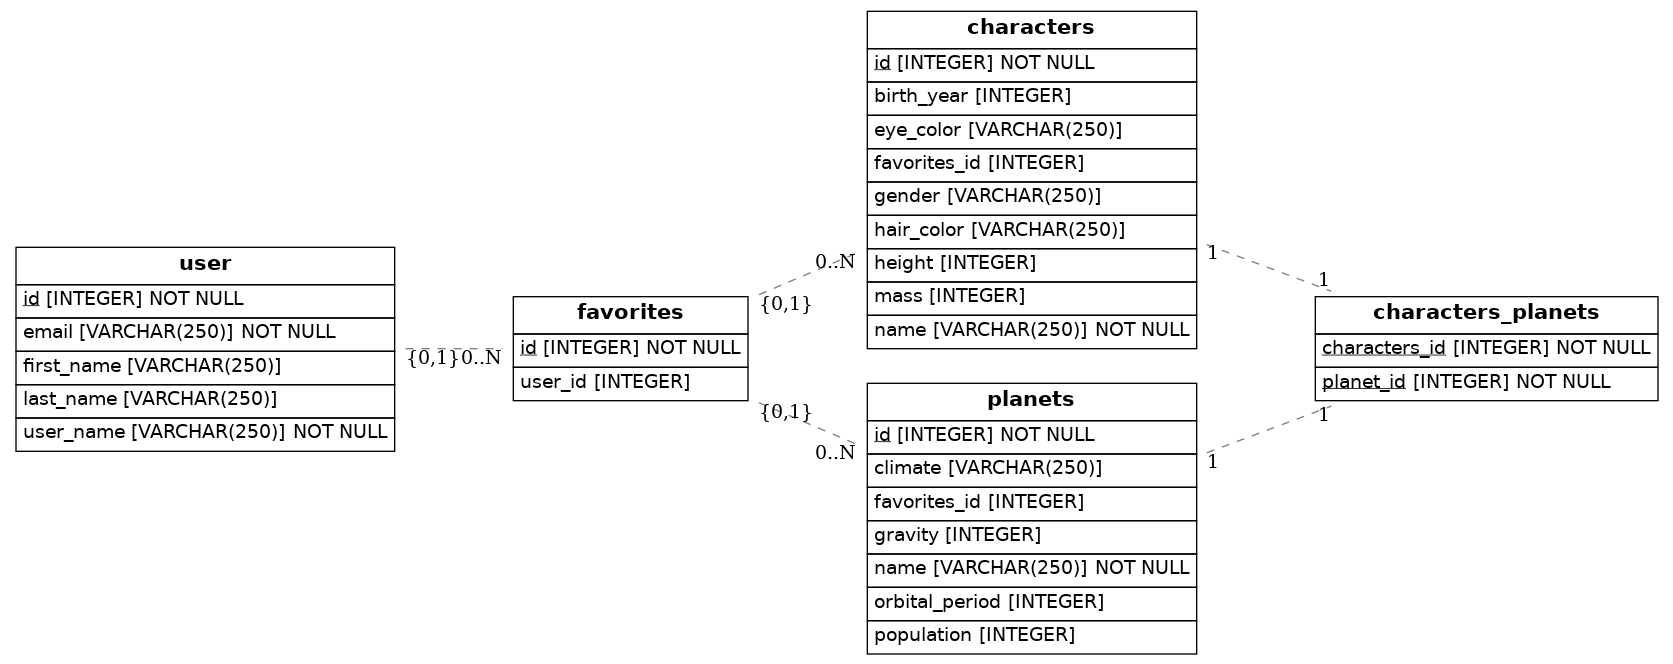
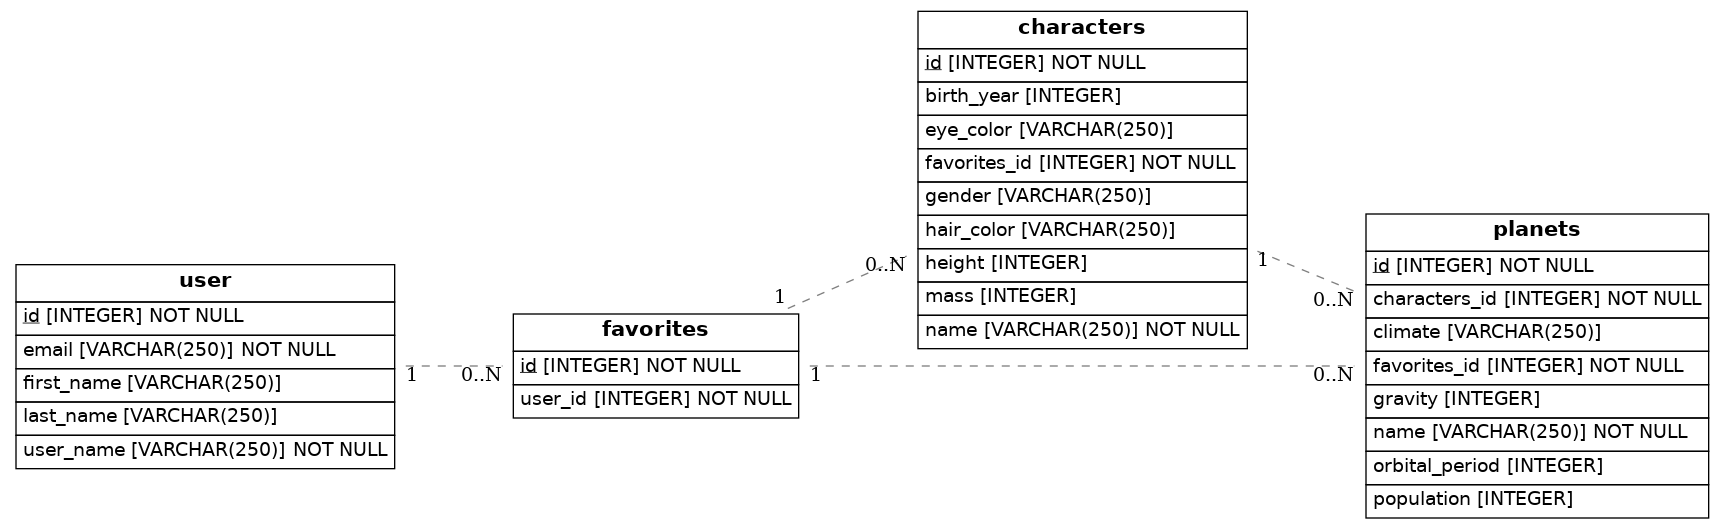
diagrama Starwars second version

Changed region(s): [[0.4662, 0.0, 0.746, 0.9981], [0.0, 0.3629, 0.4973, 0.9074], [0.746, 0.3932, 0.9946, 0.9981]]

diff --git a/src/models.py b/src/models.py
@@ -16,6 +16,15 @@ class User(Base):
     first_name = Column(String(250))
     last_name = Column(String(250))
     email = Column(String(250), nullable=False)
+    favorites = relationship ('Favorites', backref = 'favorites', lazy=True)  
+
+class Favorites(Base):
+    __tablename__ = 'favorites'
+    id = Column (Integer, primary_key=True)
+    planets = relationship ('Planets', backref='favorites', lazy=True)
+    Characters = relationship ('Characters', backref='favorites', lazy=True)
+    user_id = Column (Integer, ForeignKey('user.id'), nullable=False)
+      
 
 class Characters(Base):
     __tablename__ = 'characters'
@@ -28,11 +37,10 @@ class Characters(Base):
     gender = Column(String(250))
     hair_color = Column(String(250))
     height =  Column(Integer)
-    homeworld = relationship('Planets',secondary='characters_planets' ,back_populates='characters')
     mass = Column(Integer)
+    planets = relationship('Planets',backref='characters', lazy=True)
+    favorites_id = Column (Integer, ForeignKey('favorites.id'), nullable=False)
     
-    favorites_id = Column (Integer, ForeignKey('favorites.id'))
-    favorites = relationship ('Favorites', back_populates = 'characters')
 
 
 class Planets(Base):
@@ -45,24 +53,9 @@ class Planets(Base):
     name = Column(String(250), nullable=False)
     orbital_period = Column(Integer)
     population = Column(Integer)
-    residents = relationship ('Characters', secondary='characters_planets',back_populates = 'planets')
-    
-    favorites_id = Column (Integer, ForeignKey('favorites.id'))
-    favorites = relationship ('Favorites', back_populates = 'planets')
-
-class CharactersPlanets(Base):
-     __tablename__ = 'characters_planets'
-     characters_id = Column(Integer, ForeignKey('characters.id'), primary_key=True)
-     planet_id = Column(Integer, ForeignKey('planets.id'), primary_key=True)     
-
-class Favorites(Base):
-    __tablename__ = 'favorites'
-    id = Column (Integer, primary_key=True)
-    favorites_planets = relationship ('Planets', back_populates='favorites')
-    favorites_characters = relationship ('Characters', back_populates='favorites')
-    user_id = Column (Integer, ForeignKey('user.id'))
-    user = relationship ('User', back_populates = 'favorites')
-
+    characters_id = Column (Integer, ForeignKey('characters.id'), nullable=False) 
+    favorites_id = Column (Integer, ForeignKey('favorites.id'), nullable=False)
+   
     def to_dict(self):
         return {}
 
